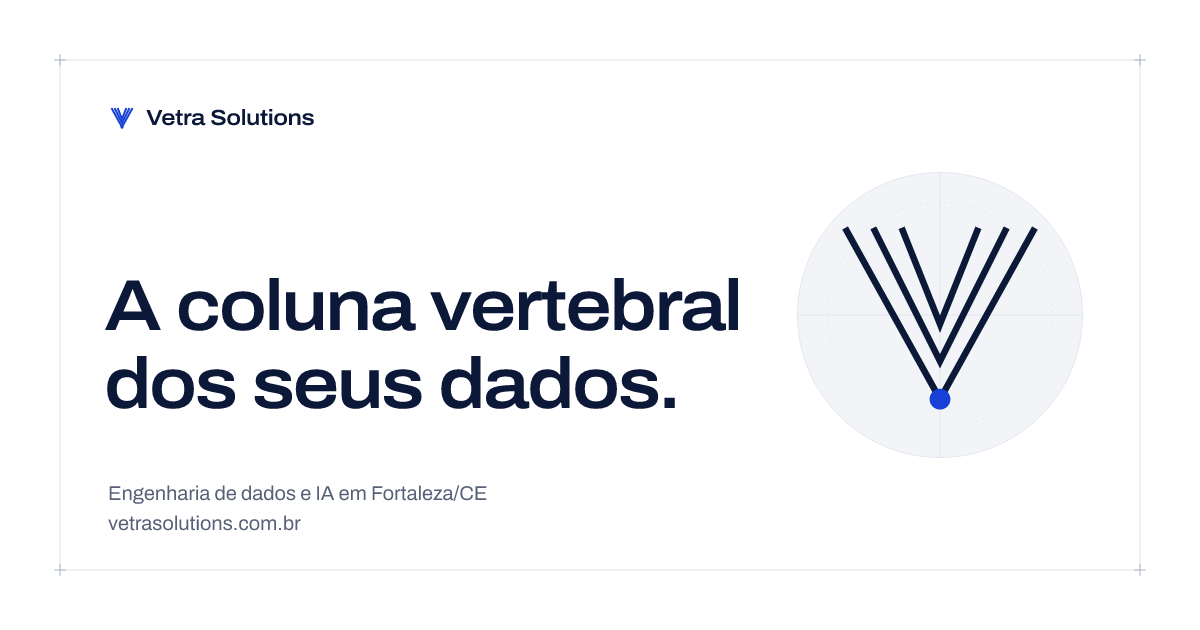
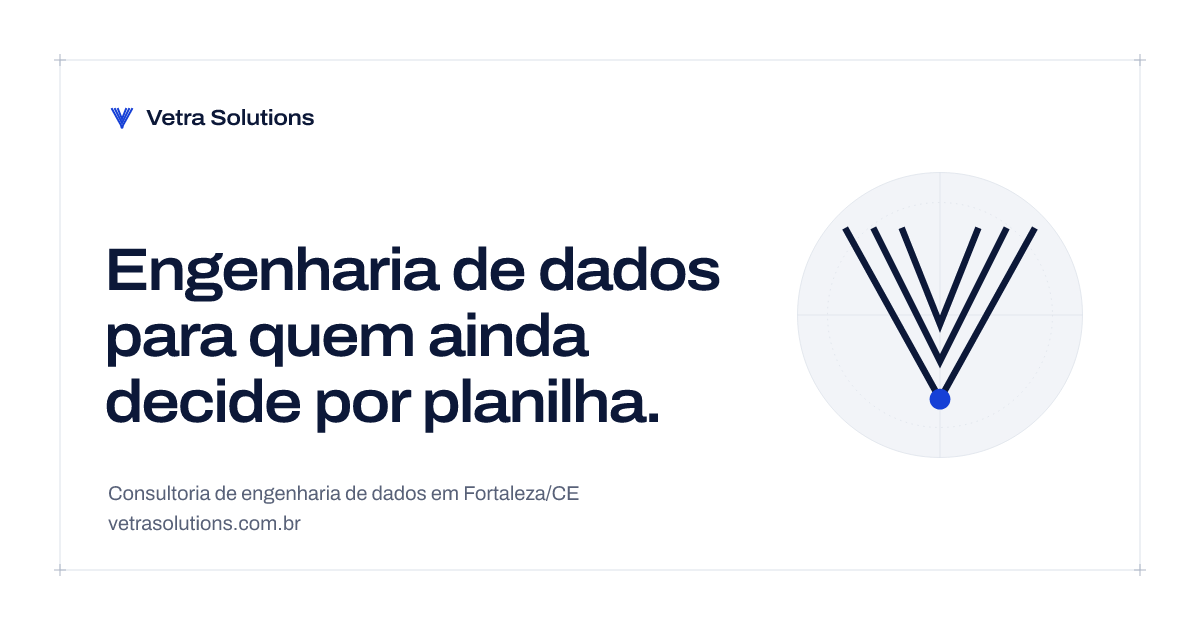
feat(A4): topo diz serviço, público, consultoria e local; title e OG atualizados

Changed region(s): [[0.0617, 0.3921, 0.6167, 0.6937], [0.185, 0.754, 0.4933, 0.8143], [0.0925, 0.754, 0.1542, 0.8143]]

diff --git a/src/config/site.ts b/src/config/site.ts
@@ -2,9 +2,10 @@ export const SITE = {
   name: 'Vetra Solutions',
   domain: 'vetrasolutions.com.br',
   url: 'https://vetrasolutions.com.br',
-  title: 'Vetra Solutions — Engenharia de Dados & IA',
+  // Termo principal no início, marca no fim (auditoria A4). TODO: validar texto.
+  title: 'Consultoria de Engenharia de Dados | Vetra Solutions',
   description:
-    'Construímos sistemas de dados, agentes de IA e automações com rigor de engenharia. Resultado de negócio sustentado por arquitetura técnica.',
+    'Consultoria de engenharia de dados em Fortaleza para empresas de todo o Brasil: base de dados única, dashboards, IA e automações. Diagnóstico gratuito.',
   city: 'Fortaleza/CE',
   founded: 2026,
 } as const;
